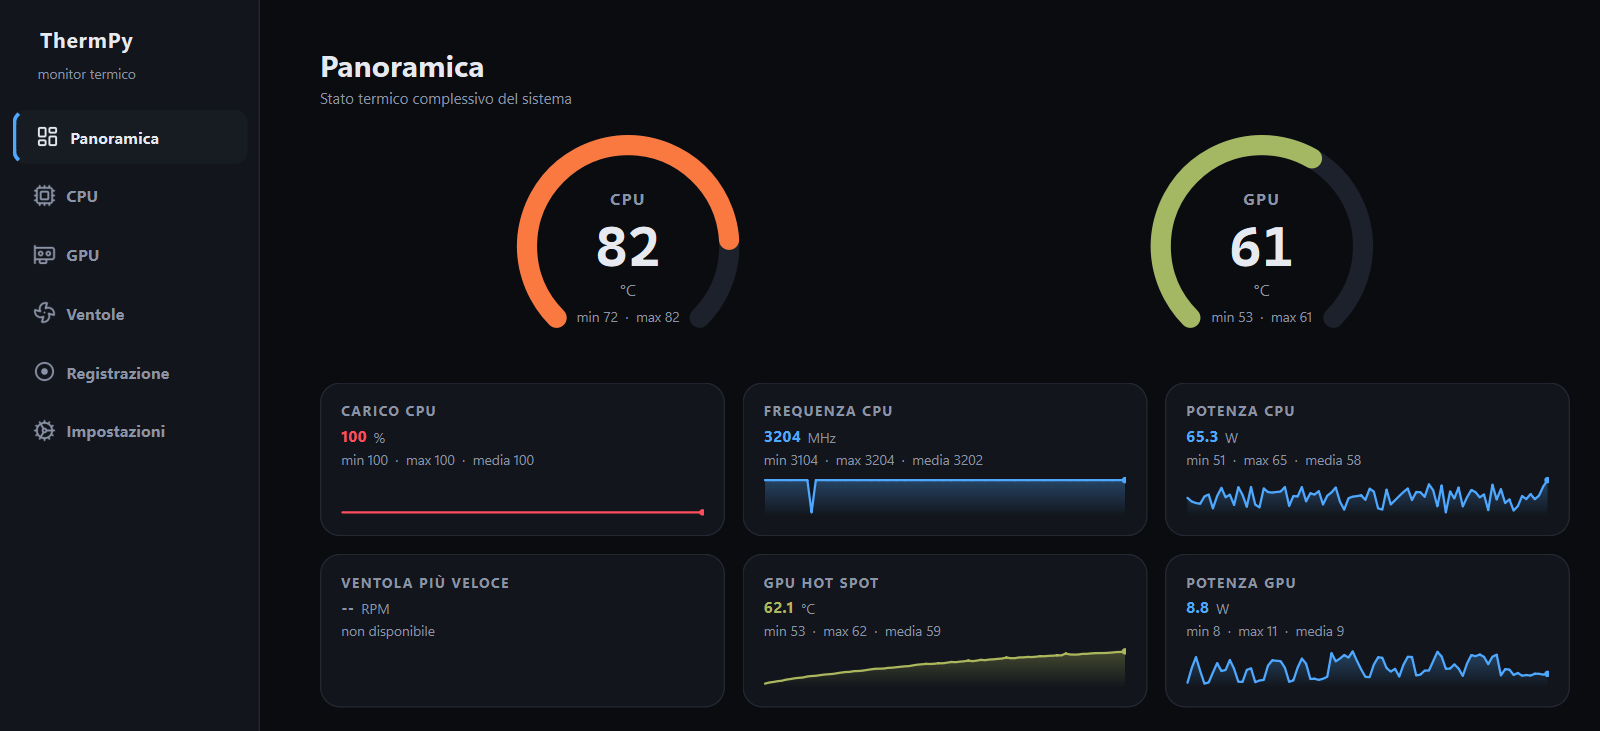
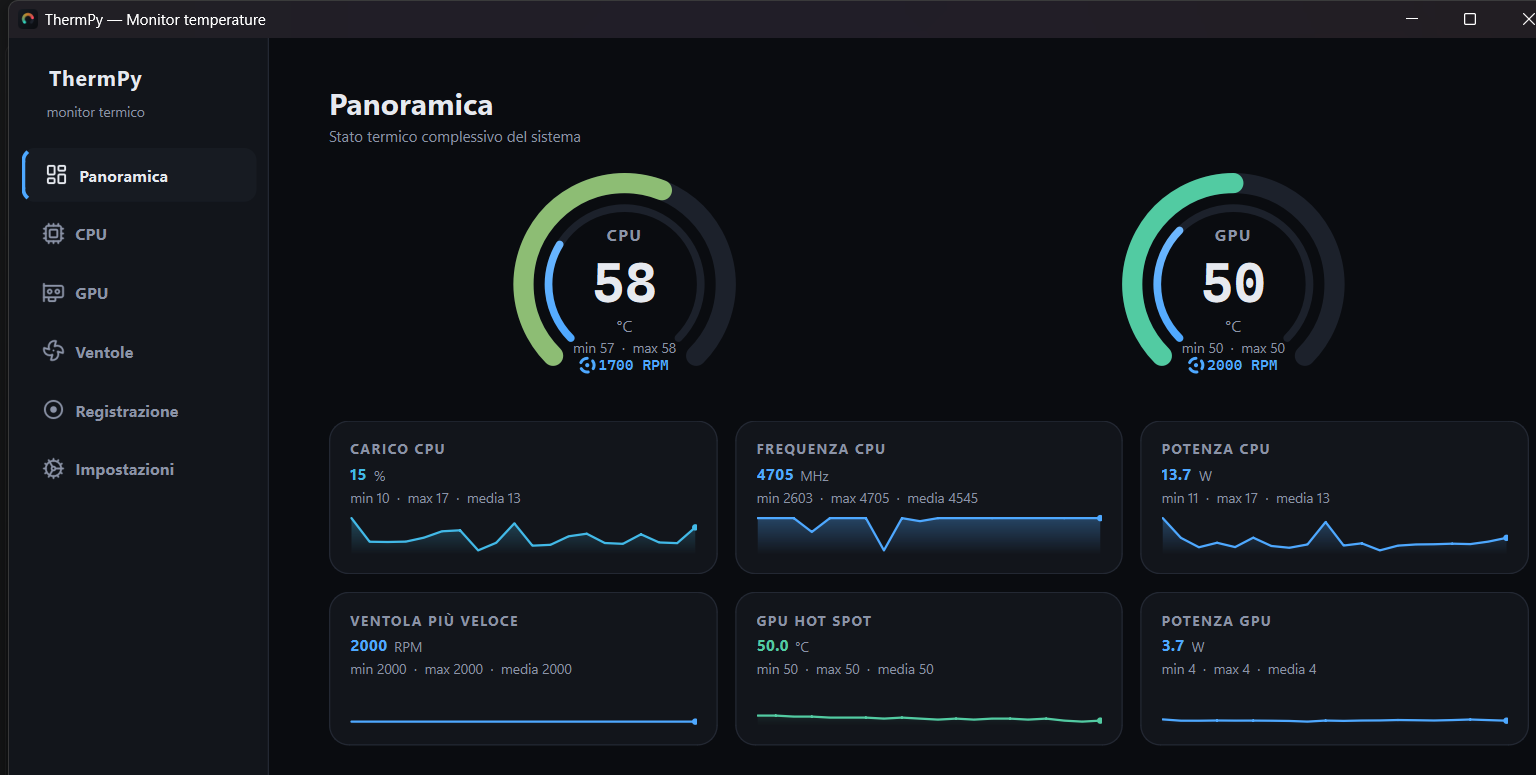
release: ThermPy 1.2.0
Ventole leggibili sui portatili Lenovo Legion e LOQ, tramite l'interfaccia WMI
del firmware, con il ruolo di ciascuna dedotto dalle sue tabelle. I giri
compaiono anche come anello interno dei gauge della Panoramica.

La sezione "Sulle ventole, senza girarci intorno" diceva che non c'era niente
da fare. Ora dice com'è andata davvero.

Screenshot della Panoramica rifatto sull'eseguibile 1.2.0.

ThermPy-Setup-1.2.0.exe
SHA256: 835643a1984eebf91ce66662d7f9483aaa27bd8c77637541cdc5d6b092308667

diff --git a/RELEASE-NOTES.md b/RELEASE-NOTES.md
@@ -1,72 +1,92 @@
-# ThermPy 1.1.1
+# ThermPy 1.2.0
 
-Quando la macchina scotta, ThermPy adesso ti dice **quale processo la sta
-scaldando** — e ti offre di chiuderlo dalla notifica.
+Sui portatili **Lenovo Legion e LOQ** ThermPy adesso legge gli RPM delle ventole —
+e sa quale raffredda la CPU e quale la GPU.
 
 ## Novità
 
-### Il processo responsabile
+### Le ventole, dove prima c'era un vicolo cieco
 
-Un pomeriggio reale sul portatile di sviluppo: 90 °C per ore, ventole al massimo,
-tutto lento. Il colpevole era un processo `renderer` di Discord impazzito che da
-solo teneva il 79% della CPU — quindici core su venti — mentre tutto il resto del
-sistema stava sotto lo 0,5%. Chiuso quello, la temperatura è scesa a 61 °C in due
-minuti. ThermPy aveva già i dati per accorgersene, e non diceva niente.
+Fino alla 1.1.1 su questa macchina la pagina Ventole diceva che il firmware non
+espone la velocità, e sembrava una porta chiusa. Non lo era: Legion Space quei
+numeri li mostra, quindi da qualche parte si leggono.
 
-Adesso lo dice:
+Si leggono dall'interfaccia WMI proprietaria del firmware, la stessa che usa Legion
+Space. Non dal metodo che citano tutte le guide — `Fan_GetCurrentFanSpeed`, dei
+Legion più vecchi — che su questi modelli **non esiste più**, ed è il motivo per cui
+cercandolo non si trova niente. La via buona è `LENOVO_OTHER_METHOD.GetFeatureValue`
+con l'ID di capability della ventola.
 
-- Quando scatta un alert termico parte la ricerca del responsabile. Se un processo
-  supera una **quota della capacità totale** — 25% di default, regolabile — per due
-  campioni consecutivi, viene nominato
-- Arriva una **notifica nativa di Windows** con la sparkline della salita termica
-  che ha portato all'allarme, il nome del processo, la sua quota e il PID
-- Un pulsante lo termina, dalla notifica o dal banner nell'applicazione
-- Se nessun processo domina la notifica lo dice — *il carico è distribuito* —
-  invece di accusare il primo della classifica
+Sul portatile di riferimento, un LOQ 15IRX10, a riposo legge 1700 e 2000 RPM; sotto
+carico sale a 2400 e 2700 in gradini da 100, gli stessi numeri che Legion Space
+mostra nello stesso istante.
 
-**A macchina fredda non costa niente**: senza un alert in corso il campionamento
-dei processi non gira affatto. Enumerare i processi di Windows costa 825 ms, e
-pagarli per sempre significherebbe scaldare la macchina per sorvegliarla.
+Niente è cablato nel codice: gli ID delle ventole vengono enumerati dalle tabelle di
+capability del firmware, quindi una macchina con una ventola sola o con tre funziona
+senza modifiche.
 
-### La terminazione, presa sul serio
+### Ogni ventola sa cosa raffredda
 
-ThermPy gira elevato, quindi quel pulsante può davvero uccidere qualunque cosa.
-Prima di toccare un processo passano tre controlli: che il nome **corrisponda
-ancora** a quel PID — fra il campionamento e il click Windows può averlo
-riassegnato a tutt'altro programma — che non sia un processo di sistema, e che non
-sia ThermPy stesso. E comunque serve una conferma esplicita, con *Annulla* come
-pulsante predefinito.
+Non "Ventola 1" e "Ventola 2", ma **CPU Fan** e **GPU Fan**. Anche questo è dedotto
+dal firmware: le sue tabelle dichiarano quale sensore governa quale ventola, e il
+sensore che legge la stessa temperatura riportata per la CPU è quello della CPU. Sul
+LOQ ne risulta ventola 1 → CPU e ventola 2 → GPU, con riscontro esterno su
+`nvidia-smi` per il sensore della GPU.
 
-### Impostazioni
+Se la deduzione resta ambigua le ventole tornano numerate. Un nome sbagliato accanto
+agli RPM è peggio di un nome generico.
 
-Nuova sezione **Processi**: si regola la quota minima per accusare, e si possono
-spegnere sia il rilevamento sia il pulsante di terminazione.
+### Le ventole nella Panoramica
+
+I due gauge hanno un secondo anello, più sottile e interno a quello della
+temperatura, con i giri della ventola che raffredda quel pezzo e la velocità scritta
+sotto.
+
+Serve a leggere una cosa sola, a colpo d'occhio: l'anello che si riempie mentre
+quello esterno scalda dice che il sistema sta reagendo. Uno che resta fermo su una
+temperatura che sale è il sintomo che conta davvero.
+
+L'anello è azzurro e non usa i colori della scala termica, perché dice quanto sta
+lavorando il raffreddamento, non quanto scotta il pezzo. Dove non c'è una ventola
+associata sparisce del tutto invece di restare vuoto: un anello a zero si legge come
+una ventola ferma, che è un'altra cosa.
+
+## Correzioni
+
+- **La tabella dei sensori si leggeva una riga per volta.** Nelle pagine CPU, GPU e
+  Ventole la tabella "Tutti i sensori" veniva schiacciata all'altezza minima, con una
+  barra di scorrimento annidata dentro quella della pagina. Ora si dimensiona sul
+  proprio contenuto e a scorrere è solo la pagina.
+- **La conferma prima di terminare un processo confrontava la risposta nel modo
+  sbagliato** e poteva non riconoscere l'annullamento. La correzione è di pochi
+  minuti successiva alla build della 1.1.1 e non era mai finita in un rilascio.
 
 ## Installazione
 
-Scarica ed esegui `ThermPy-Setup-1.1.1.exe`. Richiede Windows 10 o 11 a 64 bit.
-Non serve installare Python, Qt o il runtime .NET: sono già inclusi.
+Scarica ed esegui `ThermPy-Setup-1.2.0.exe`. Richiede Windows 10 o 11 a 64 bit. Non
+serve installare Python, Qt o il runtime .NET: sono già inclusi.
 
-Se hai già la 1.1.0, l'installer la aggiorna mantenendo le preferenze.
+Se hai già una versione precedente, l'installer la aggiorna mantenendo le preferenze.
 
-**ThermPy chiede i privilegi di amministratore.** Non è una comodità: su Windows
-le temperature per-core della CPU si leggono dagli MSR del processore e gli RPM
-delle ventole dall'Embedded Controller, e a entrambi si accede solo tramite un
-driver in modalità kernel.
+**ThermPy chiede i privilegi di amministratore.** Non è una comodità: su Windows le
+temperature per-core della CPU si leggono dagli MSR del processore e gli RPM delle
+ventole dall'Embedded Controller, e a entrambi si accede solo tramite un driver in
+modalità kernel. Anche l'interfaccia WMI Lenovo, senza elevazione, non espone nulla.
 
 ## Note
 
+- La lettura delle ventole Lenovo è verificata su un LOQ 15IRX10. Sugli altri Legion
+  e LOQ dovrebbe funzionare, perché il codice enumera le capability del firmware
+  invece di assumerle, ma non è stata provata su altro hardware.
+- Su macchine non Lenovo le ventole restano affidate a LibreHardwareMonitor, che le
+  mostra dove il firmware le espone: desktop con SuperIO e molti altri portatili.
+  Dove non ci sono, la pagina Ventole continua a distinguere "mancano i privilegi"
+  da "il firmware non le espone".
 - Il primo avvio impiega qualche secondo: la libreria di lettura sensori deve
   enumerare l'hardware e caricare il proprio driver.
-- Le notifiche sono quelle native di Windows, quindi rispettano Assistente
-  notifiche e Non disturbare. Se le hai silenziate per ThermPy nelle impostazioni
-  di sistema, l'avviso resta comunque visibile nel banner dell'applicazione.
-- Il colpevole viene annunciato una decina di secondi dopo l'inizio dell'episodio:
-  è il tempo dei due campioni consecutivi che servono a distinguere un problema
-  vero dal picco di una compilazione che parte.
-- Su alcuni portatili la velocità delle ventole non è esposta dal firmware. In quel
-  caso la pagina Ventole lo dice esplicitamente, distinguendo questa situazione
-  dalla mancanza di privilegi.
+- Le notifiche sono quelle native di Windows, quindi rispettano Assistente notifiche
+  e Non disturbare. Se le hai silenziate per ThermPy nelle impostazioni di sistema,
+  l'avviso resta visibile nel banner dell'applicazione.
 
 ## Licenza
 
@@ -77,6 +97,6 @@ installazione.
 ## Verifica del file
 
 ```
-ThermPy-Setup-1.1.1.exe
-SHA256: 52617e8f5dd90b1fc110ef65a4a31c8c159c30e4092b6d72b4672eca4cdad062
+ThermPy-Setup-1.2.0.exe
+SHA256: 835643a1984eebf91ce66662d7f9483aaa27bd8c77637541cdc5d6b092308667
 ```

diff --git a/README.md b/README.md
@@ -12,7 +12,7 @@ assorbita, dischi e batteria — tutto in tempo reale, in una finestra sola.
 E quando la macchina scotta non si limita a dirtelo: **ti dice quale processo la
 sta scaldando, e te lo fa chiudere da lì.**
 
-[![Scarica](https://img.shields.io/badge/scarica-ThermPy%201.1.1-2DD4BF?style=for-the-badge)](../../releases/latest)
+[![Scarica](https://img.shields.io/badge/scarica-ThermPy%201.2.0-2DD4BF?style=for-the-badge)](../../releases/latest)
 
 [![Licenza](https://img.shields.io/badge/licenza-gratuito-4EA8FF)](LICENSE)
 [![Piattaforma](https://img.shields.io/badge/piattaforma-Windows%2010%20%7C%2011-0078D4)](#requisiti)
@@ -47,10 +47,14 @@ video, con la tabella completa dei sensori grezzi.
 
 ## Ventole
 
-Una card per ventola con RPM correnti e storico. Quando gli RPM non ci sono,
-ThermPy dice **perché**: distingue "mancano i privilegi di amministratore" da "i
-privilegi ci sono ma il firmware non li espone", invece di mostrare una pagina
-vuota che sembra un difetto.
+Una card per ventola con RPM correnti e storico. Sui portatili **Lenovo Legion e
+LOQ** le ventole si leggono dall'interfaccia WMI del firmware, e ognuna sa cosa
+raffredda: *CPU Fan* e *GPU Fan*, non "Ventola 1" e "Ventola 2". I giri compaiono
+anche nella Panoramica, come anello interno dei due gauge.
+
+Quando gli RPM non ci sono, ThermPy dice **perché**: distingue "mancano i privilegi
+di amministratore" da "i privilegi ci sono ma il firmware non li espone", invece di
+mostrare una pagina vuota che sembra un difetto.
 
 ![Ventole](screenshots/fans.png)
 
@@ -128,7 +132,7 @@ e il motivo.
 
 ## Installazione
 
-Scarica **[ThermPy-Setup-1.1.1.exe](../../releases/latest)** dalla pagina delle
+Scarica **[ThermPy-Setup-1.2.0.exe](../../releases/latest)** dalla pagina delle
 release ed eseguilo.
 
 ![Installer](screenshots/installer.png)
@@ -147,11 +151,11 @@ quello sul desktop, e registra la voce di disinstallazione in "App installate".
 ### Verifica del file scaricato
 
 ```
-SHA256: 52617e8f5dd90b1fc110ef65a4a31c8c159c30e4092b6d72b4672eca4cdad062
+SHA256: 835643a1984eebf91ce66662d7f9483aaa27bd8c77637541cdc5d6b092308667
 ```
 
 ```powershell
-Get-FileHash ThermPy-Setup-1.1.1.exe -Algorithm SHA256
+Get-FileHash ThermPy-Setup-1.2.0.exe -Algorithm SHA256
 ```
 
 ---
@@ -170,10 +174,11 @@ diagnostica hardware.
 
 ## Le tre sorgenti dati
 
-ThermPy non dipende da un'unica fonte: ne interroga tre e le fonde.
+ThermPy non dipende da un'unica fonte: ne interroga quattro e le fonde.
 
 | Sorgente | Priorità | Fornisce |
 |---|:---:|---|
+| **WMI Lenovo** (`root\WMI`) via pythonnet | 20 | RPM delle ventole sui portatili Legion e LOQ, con il dispositivo che raffreddano |
 | **LibreHardwareMonitorLib** via pythonnet | 9 | temperature CPU per-core, ventole, GPU completa, dischi, batteria |
 | **NVML** (driver NVIDIA) | 5 | riserva per la GPU se il runtime .NET non parte |
 | **psutil** | 1 | carichi, frequenze, memoria, batteria; sempre disponibile |
@@ -189,19 +194,31 @@ ciò che resta e lo dichiara nella pagina Impostazioni.
 
 ## Sulle ventole, senza girarci intorno
 
-Sul portatile su cui ThermPy è stato sviluppato (Lenovo `LNVNB161216`, i7-13650HX +
-RTX 5070 Laptop) **la velocità istantanea delle ventole non è ottenibile**, nemmeno
-da amministratore. Le tre strade sono state verificate una per una:
+Sul portatile su cui ThermPy è stato sviluppato (Lenovo LOQ 15IRX10, i7-13650HX +
+RTX 5070 Laptop) la velocità delle ventole non passa da nessuna sorgente generica.
+Le tre strade, verificate una per una:
 
 | Via | Esito |
 |---|---|
 | LibreHardwareMonitor | La motherboard non espone né SuperIO né Embedded Controller: nessun profilo per questo modello |
 | NVML | `NVML_ERROR_NOT_SUPPORTED`, `num fans = 0` — la ventola della GPU è pilotata dall'EC |
-| WMI Lenovo | `LENOVO_FAN_TABLE_DATA` e `LENOVO_FAN_TEST_DATA` espongono curve, limiti e `NumOfFans = 2`, ma nessuna velocità corrente |
+| WMI Lenovo | **È la via buona.** `LENOVO_OTHER_METHOD.GetFeatureValue` restituisce gli RPM correnti |
 
-È un limite del firmware, non del programma: la lettura delle ventole è
-implementata per intero e la pagina si popola da sola su hardware che le espone,
-come i desktop con SuperIO e molti altri portatili.
+Fino alla 1.1.1 questa sezione diceva che non c'era niente da fare. Era sbagliato.
+Il metodo che citano tutte le guide — `Fan_GetCurrentFanSpeed` dei Legion più
+vecchi — su questi modelli non esiste più, ed è il motivo per cui cercandolo non si
+trova nulla; ma il firmware espone gli stessi numeri altrove, ed è da lì che li
+prende Legion Space.
+
+Gli ID delle ventole vengono enumerati dalle tabelle di capability invece di essere
+cablati, e il **ruolo** di ciascuna è dedotto dal firmware: le tabelle dichiarano
+quale sensore governa quale ventola, e il sensore che legge la stessa temperatura
+riportata per la CPU è quello della CPU. Se la deduzione resta ambigua le ventole
+restano numerate, perché un nome sbagliato accanto agli RPM è peggio di uno generico.
+
+Su hardware non Lenovo la lettura resta affidata a LibreHardwareMonitor, e la pagina
+si popola da sola dove il firmware le espone: desktop con SuperIO e molti altri
+portatili.
 
 ---
 
@@ -253,5 +270,5 @@ invece che all'interprete. Senza, i toast non partirebbero affatto.
 ---
 
 <div align="center">
-<sub>ThermPy 1.1.1 · gratuito · Qt sotto LGPL-3.0</sub>
+<sub>ThermPy 1.2.0 · gratuito · Qt sotto LGPL-3.0</sub>
 </div>
